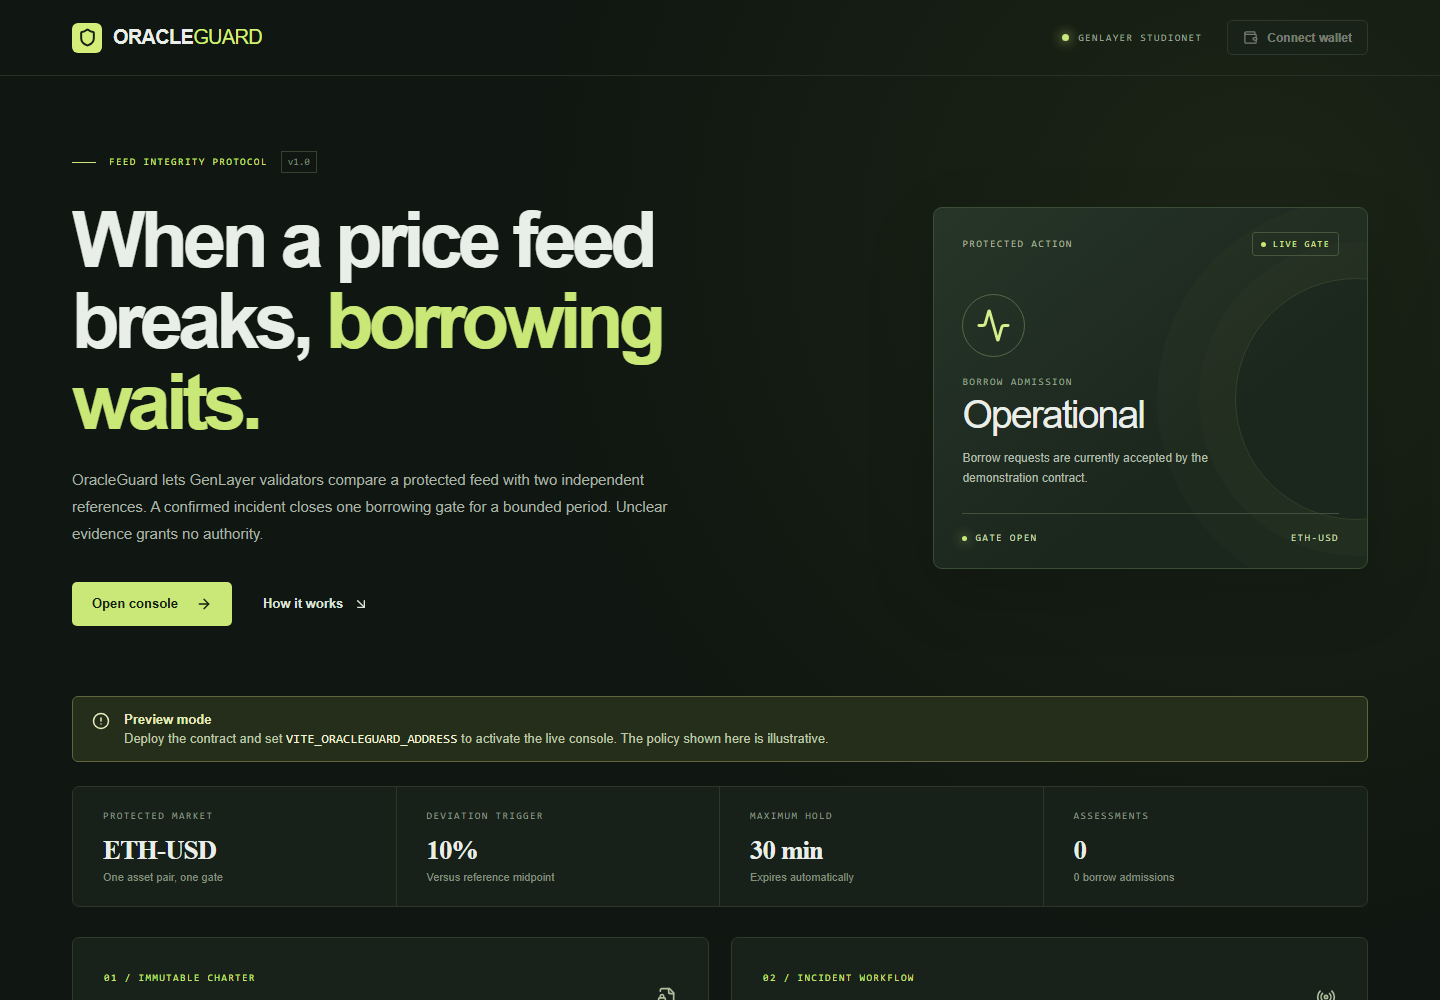
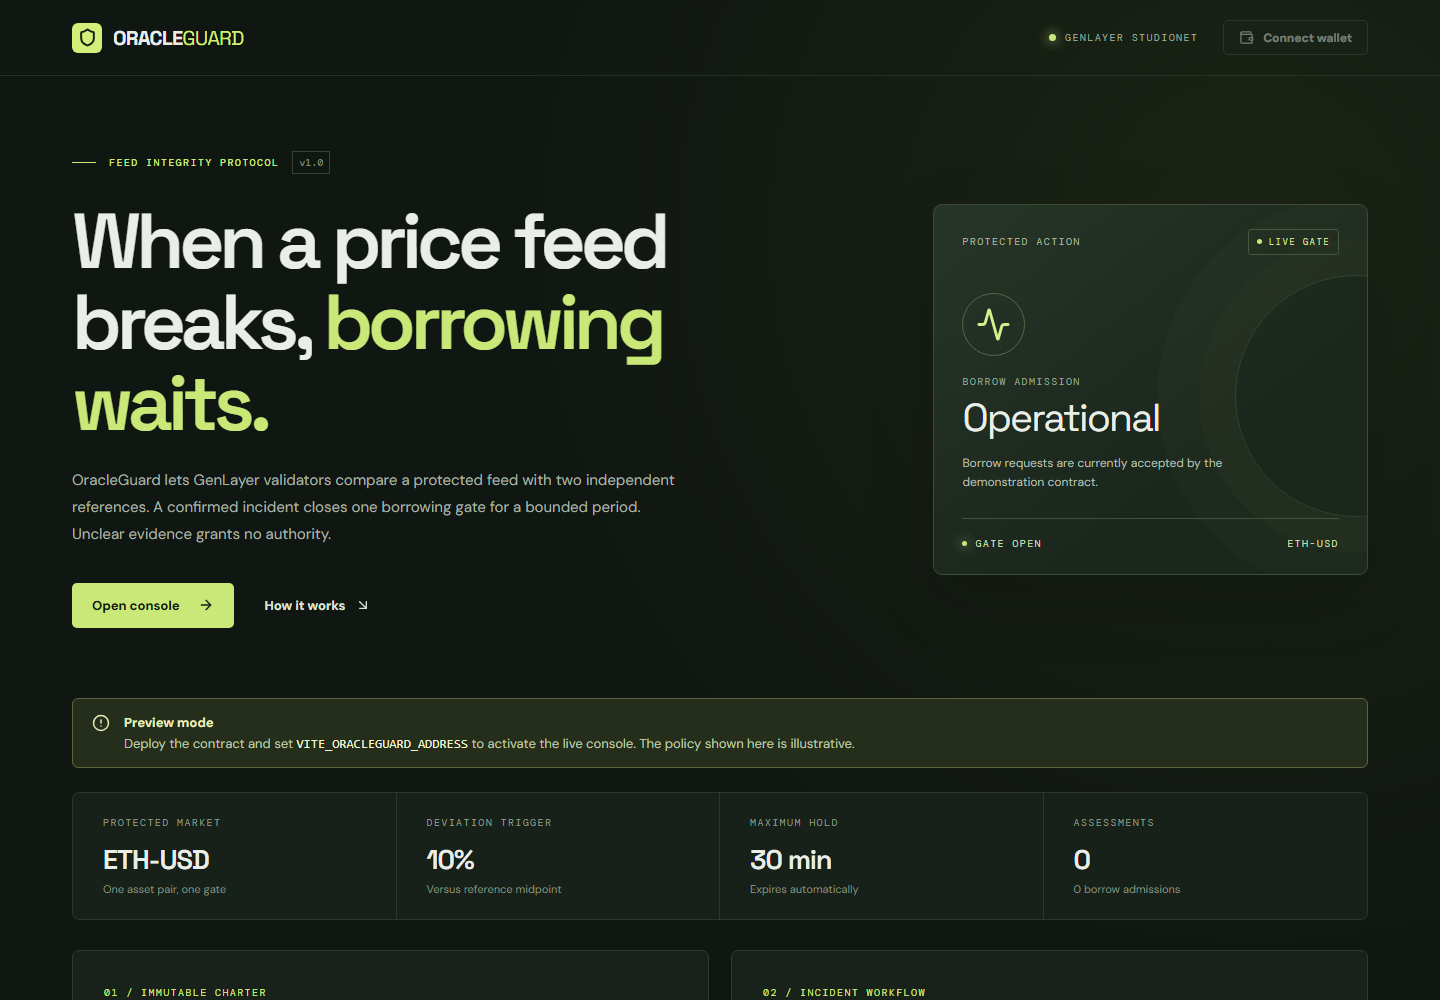
Keep display typography consistent offline

diff --git a/web/src/style.css b/web/src/style.css
@@ -1,6 +1,6 @@
 @import url('https://fonts.googleapis.com/css2?family=DM+Mono:wght@400;500&family=DM+Sans:wght@400;500;600;700&family=Space+Grotesk:wght@400;500;600;700&display=swap');
 
-:root{font-family:'DM Sans',sans-serif;color:#e9eee8;background:#101611;font-synthesis:none;text-rendering:optimizeLegibility}*{box-sizing:border-box}html{scroll-behavior:smooth}body{margin:0;min-width:320px}button,input,textarea{font:inherit}button{cursor:pointer}a{color:inherit;text-decoration:none}button:disabled{cursor:not-allowed;opacity:.45}.app{min-height:100vh;background:radial-gradient(circle at 87% 9%,rgba(123,162,62,.1),transparent 28%),#101611}.topbar{height:76px;display:flex;align-items:center;justify-content:space-between;padding:0 max(5vw,32px);border-bottom:1px solid #263025}.brand{display:flex;align-items:center;gap:11px;font-family:'Space Grotesk',sans-serif;font-weight:700;font-size:20px;letter-spacing:-.7px}.brand-mark{height:30px;width:30px;display:grid;place-items:center;background:#d4ef79;color:#172015;border-radius:6px}.brand-light{font-weight:400;color:#d4ef79}.topbar-right{display:flex;align-items:center;gap:25px}.network,.section-label,.eyebrow,.version,.status-top,.status-kicker,.status-bottom,.metric>span,.field-label,.source span,.rule-grid span,.action-divider,.table-head,.step-number,.decision,.recorded{font-family:'DM Mono',monospace;letter-spacing:1.4px;font-size:10px}.network{color:#9ba799;display:flex;gap:9px;align-items:center}.network-dot,.tiny-dot{width:7px;height:7px;background:#c8e87d;border-radius:50%;display:inline-block;box-shadow:0 0 12px #c8e87d}.wallet-button{height:35px;padding:0 15px;border:1px solid #465544;border-radius:5px;background:#1b251c;color:#e8eee3;display:flex;align-items:center;gap:9px;font-size:12px;font-weight:700}.wallet-button:hover:not(:disabled){background:#2b3929}main{max-width:1440px;margin:auto;padding:0 max(5vw,32px)}.hero{display:grid;grid-template-columns:1.4fr .8fr;gap:7vw;align-items:center;padding:75px 0 70px}.eyebrow{color:#c9e877;display:flex;align-items:center;gap:13px;font-weight:500}.eyebrow-line{display:block;width:24px;height:1px;background:#c9e877}.version{color:#778674;border:1px solid #354232;padding:4px 6px;letter-spacing:0}.hero h1{font-family:'Space Grotesk',sans-serif;font-size:clamp(48px,5.4vw,84px);letter-spacing:-5px;line-height:1.04;max-width:850px;margin:27px 0 23px;font-weight:600}.hero h1 em{font-style:normal;color:#c9e877}.hero-copy>p{font-size:15px;line-height:1.8;color:#a8b3a6;max-width:605px;margin:0}.hero-actions{display:flex;align-items:center;gap:31px;margin-top:35px}.primary-link{background:#c9e877;color:#152013;padding:14px 20px;border-radius:5px;font-weight:700;font-size:13px;display:flex;gap:18px;align-items:center}.primary-link:hover{background:#e0f5a2}.text-link{font-size:13px;font-weight:700;color:#dce3d9;display:flex;align-items:center;gap:10px}.text-link:hover{color:#c9e877}.hero-status{background:linear-gradient(142deg,#273528,#1b261d 66%);border:1px solid #3b4d37;border-radius:9px;min-height:344px;padding:24px 28px;box-shadow:0 24px 70px rgba(0,0,0,.14);position:relative;overflow:hidden}.hero-status:after{content:'';position:absolute;width:240px;height:240px;right:-110px;top:70px;border:1px solid rgba(201,232,119,.14);border-radius:50%;box-shadow:0 0 0 36px rgba(201,232,119,.025),0 0 0 78px rgba(201,232,119,.02)}.hero-status.is-closed{background:linear-gradient(142deg,#3b3425,#28251c 66%);border-color:#655638}.status-top,.status-bottom{display:flex;justify-content:space-between;align-items:center;color:#a5b39e;position:relative;z-index:1}.live-pill{padding:6px 8px;border:1px solid #45573c;border-radius:3px;color:#d0e394;display:flex;align-items:center;gap:7px;font-size:9px}.live-pill span{width:5px;height:5px;border-radius:50%;background:#c9e877}.status-icon{height:63px;width:63px;border:1px solid #566849;border-radius:50%;display:grid;place-items:center;color:#d4ee8d;margin:38px 0 19px;position:relative;z-index:1}.status-kicker{color:#96a48e}.status-word{font-family:'Space Grotesk',sans-serif;font-size:39px;letter-spacing:-1.8px;margin:5px 0}.hero-status>p{font-size:12px;color:#b0bdab;line-height:1.6;max-width:280px;min-height:39px;position:relative;z-index:1}.status-bottom{border-top:1px solid #42513d;padding-top:18px;margin-top:25px;color:#c9dcad}.status-bottom span:first-child{display:flex;align-items:center;gap:8px}.status-bottom .tiny-dot{height:5px;width:5px}.setup-banner{display:flex;gap:14px;align-items:flex-start;padding:15px 19px;border:1px solid #5f643e;background:#252d1b;border-radius:6px;color:#e7ecbd;margin-bottom:24px;font-size:13px}.setup-banner div{display:flex;flex-direction:column;gap:4px}.setup-banner span{color:#bfc7a9}.setup-banner code{color:#f0f4d1}.metrics{display:grid;grid-template-columns:repeat(4,1fr);border:1px solid #2c372a;background:#172019;border-radius:7px;margin-bottom:30px}.metric{padding:23px 30px;border-right:1px solid #2c372a;display:flex;flex-direction:column}.metric:last-child{border-right:0}.metric>span{color:#8a9a86}.metric strong{font-family:'Space Grotesk';font-size:27px;margin:13px 0 5px;font-weight:600;letter-spacing:-1px}.metric small{color:#82907f;font-size:11px}.console-grid{display:grid;grid-template-columns:1fr 1fr;gap:22px}.panel{background:#18221a;border:1px solid #2e3b2c;border-radius:7px;padding:29px 31px;min-height:590px}.panel-heading{display:flex;justify-content:space-between;align-items:center;color:#adbf9d}.section-label{color:#c9e877}.panel h2,.section-header h2,.how h2{font-family:'Space Grotesk';letter-spacing:-1.2px;font-size:29px;font-weight:600;margin:9px 0 0;color:#eff5eb}.panel-intro{color:#9fae9a;line-height:1.65;font-size:13px;max-width:540px;margin:17px 0 24px}.source-list{border:1px solid #32402f;border-radius:5px;overflow:hidden}.source{display:flex;align-items:center;gap:17px;padding:15px 18px;border-bottom:1px solid #32402f}.source:last-child{border-bottom:0}.source-index{font-family:'DM Mono';font-size:12px;color:#71816d;width:22px}.source>div:nth-child(2){display:flex;flex-direction:column;gap:4px;flex:1;min-width:0}.source span{color:#c5df88;font-size:9px}.source strong{font-size:13px;font-weight:600}.source small{color:#81917f;font-size:11px;text-overflow:ellipsis;white-space:nowrap;overflow:hidden}.source a{color:#81917f}.source a:hover{color:#d4ef79}.rule-grid{display:grid;grid-template-columns:1fr 1fr;gap:12px;margin-top:18px}.rule-grid>div{border:1px solid #32402f;border-radius:5px;padding:16px;display:flex;justify-content:space-between;align-items:center}.rule-grid span{color:#82917d;font-size:9px}.rule-grid strong{font-family:'Space Grotesk';font-size:17px}.contract-link{display:flex;align-items:center;gap:8px;color:#c9e877;font-family:'DM Mono';font-size:10px;margin-top:24px}.contract-link:hover{text-decoration:underline}.field-label{display:block;color:#a6b5a1;margin:21px 0 9px}.action-panel textarea,.number-input{background:#111912;border:1px solid #344331;border-radius:4px;color:#e6efe1}.action-panel textarea{resize:vertical;width:100%;height:95px;min-height:72px;padding:13px 15px;font-size:13px;line-height:1.5;outline:none}.action-panel textarea:focus,.number-input:focus-within{border-color:#b4d676}.action-panel textarea::placeholder{color:#61715e}.input-row{display:flex;gap:20px;align-items:end}.input-row>div:first-child{flex:1}.number-input{display:flex;align-items:center;max-width:240px;height:44px}.number-input input{min-width:0;flex:1;width:90px;padding:0 12px;background:none;border:0;outline:none;color:#f0f4e8;font-size:14px}.number-input span{color:#859480;font-size:11px;padding-right:12px}.duration-hint{font-size:11px;color:#768774;line-height:1.6;padding-bottom:4px}.duration-hint strong{color:#b6c8ac;font-size:12px}.action-button{width:100%;height:47px;display:flex;align-items:center;justify-content:center;gap:12px;background:#c9e877;border:0;border-radius:4px;color:#1c2918;font-weight:700;font-size:13px;margin-top:22px}.action-button:hover:not(:disabled){background:#e0f5a2}.action-divider{display:flex;align-items:center;gap:12px;color:#80907a;margin:25px 0 17px;white-space:nowrap}.action-divider:after{content:'';height:1px;background:#364433;flex:1}.borrow-row{display:flex;gap:9px}.borrow-row .number-input{flex:1;max-width:none}.secondary-button{display:flex;align-items:center;justify-content:center;gap:7px;white-space:nowrap;background:#31402e;color:#e7f2d8;border:1px solid #52644c;border-radius:4px;padding:0 15px;font-weight:700;font-size:12px}.secondary-button:hover:not(:disabled){background:#43573e}.microcopy{font-size:11px;color:#778873;line-height:1.4;margin:10px 0 0}.feedback{display:flex;justify-content:space-between;gap:15px;padding:14px 18px;background:#243b24;border:1px solid #537d49;border-radius:5px;margin-top:18px;color:#d1edc1;font-size:12px}.feedback>div,.feedback a{display:flex;align-items:center;gap:9px}.feedback a{text-decoration:underline}.feedback-error{background:#37251d;border-color:#905143;color:#f4c5b7}.spin{animation:spin 1.4s linear infinite}@keyframes spin{to{transform:rotate(360deg)}}.incidents{padding:77px 0 90px}.section-header{display:flex;justify-content:space-between;align-items:end;margin-bottom:25px}.section-header h2{font-size:35px}.section-header p,.how-title p{color:#8d9d8a;font-size:13px;margin:8px 0 0}.refresh-button{background:none;border:1px solid #42523d;color:#d9e5d4;border-radius:4px;padding:10px 14px;display:flex;align-items:center;gap:8px;font-size:12px}.refresh-button:hover:not(:disabled){background:#1d2a1f}.incident-table{border:1px solid #30402e;border-radius:6px;overflow:hidden;background:#18221a}.table-head,.incident-row{display:grid;grid-template-columns:1.1fr 1.35fr 1.6fr 1.2fr .9fr;align-items:center;gap:12px;padding:0 20px}.table-head{height:46px;background:#223024;color:#91a18d;font-size:9px}.incident-row{min-height:81px;border-top:1px solid #30402e;font-size:12px}.incident-id,.evidence-cell{display:flex;flex-direction:column;gap:6px;min-width:0}.incident-id strong{font-family:'Space Grotesk';font-size:16px}.incident-id small,.evidence-cell small{color:#879784;overflow:hidden;text-overflow:ellipsis;white-space:nowrap}.evidence-cell strong{font-weight:500;overflow:hidden;text-overflow:ellipsis;white-space:nowrap}.decision{display:inline-flex;align-items:center;gap:6px;color:#b4c6aa;font-size:9px;letter-spacing:.6px;line-height:1.5}.decision-trigger_confirmed{color:#f6cb89}.decision-no_trigger{color:#cde692}.decision-insufficient_evidence{color:#d6c493}.date-cell{color:#a1b09d;font-size:11px}.evaluate-button{color:#d4ed9a;border:1px solid #506746;background:#293a29;border-radius:4px;padding:9px 11px;display:flex;align-items:center;gap:8px;font-size:11px}.evaluate-button:hover:not(:disabled){background:#3b5237}.recorded{color:#81917e;font-size:9px;letter-spacing:.2px;line-height:1.5}.empty-state{min-height:205px;border-top:1px solid #30402e;display:flex;align-items:center;justify-content:center;flex-direction:column;gap:9px;color:#8ea386;text-align:center}.empty-state strong{color:#dce8d5;font-family:'Space Grotesk';font-size:17px;font-weight:500}.empty-state span{font-size:12px}.how{border-top:1px solid #2b392a;padding:62px 0 100px;display:grid;grid-template-columns:.8fr 2fr;gap:60px}.how h2{font-size:41px;line-height:1.1;max-width:320px;margin-top:15px}.how-title p{line-height:1.6;max-width:250px}.how-steps{display:grid;grid-template-columns:repeat(4,1fr);gap:13px}.how-steps>div{background:#18221a;border:1px solid #30402e;border-radius:6px;padding:20px 17px;min-height:235px}.step-icon{display:grid;place-items:center;width:41px;height:41px;border:1px solid #4b6142;color:#d0ea91;border-radius:5px;margin-bottom:28px}.step-number{color:#9dae8f}.how h3{font-family:'Space Grotesk';font-size:16px;margin:10px 0;font-weight:600}.how-steps p{font-size:11px;line-height:1.7;color:#8fa18b;margin:0}footer{border-top:1px solid #2b392a;max-width:1440px;margin:auto;padding:28px max(5vw,32px);display:flex;align-items:center;justify-content:space-between;color:#83917e;font-size:11px}footer .brand{font-size:15px;color:#edf3e9}footer .brand-mark{height:23px;width:23px}footer a{display:flex;align-items:center;gap:5px}footer a:hover{color:#c9e877}
+:root{font-family:'DM Sans',sans-serif;color:#e9eee8;background:#101611;font-synthesis:none;text-rendering:optimizeLegibility}*{box-sizing:border-box}html{scroll-behavior:smooth}body{margin:0;min-width:320px}button,input,textarea{font:inherit}button{cursor:pointer}a{color:inherit;text-decoration:none}button:disabled{cursor:not-allowed;opacity:.45}.app{min-height:100vh;background:radial-gradient(circle at 87% 9%,rgba(123,162,62,.1),transparent 28%),#101611}.topbar{height:76px;display:flex;align-items:center;justify-content:space-between;padding:0 max(5vw,32px);border-bottom:1px solid #263025}.brand{display:flex;align-items:center;gap:11px;font-family:'Space Grotesk',sans-serif;font-weight:700;font-size:20px;letter-spacing:-.7px}.brand-mark{height:30px;width:30px;display:grid;place-items:center;background:#d4ef79;color:#172015;border-radius:6px}.brand-light{font-weight:400;color:#d4ef79}.topbar-right{display:flex;align-items:center;gap:25px}.network,.section-label,.eyebrow,.version,.status-top,.status-kicker,.status-bottom,.metric>span,.field-label,.source span,.rule-grid span,.action-divider,.table-head,.step-number,.decision,.recorded{font-family:'DM Mono',monospace;letter-spacing:1.4px;font-size:10px}.network{color:#9ba799;display:flex;gap:9px;align-items:center}.network-dot,.tiny-dot{width:7px;height:7px;background:#c8e87d;border-radius:50%;display:inline-block;box-shadow:0 0 12px #c8e87d}.wallet-button{height:35px;padding:0 15px;border:1px solid #465544;border-radius:5px;background:#1b251c;color:#e8eee3;display:flex;align-items:center;gap:9px;font-size:12px;font-weight:700}.wallet-button:hover:not(:disabled){background:#2b3929}main{max-width:1440px;margin:auto;padding:0 max(5vw,32px)}.hero{display:grid;grid-template-columns:1.4fr .8fr;gap:7vw;align-items:center;padding:75px 0 70px}.eyebrow{color:#c9e877;display:flex;align-items:center;gap:13px;font-weight:500}.eyebrow-line{display:block;width:24px;height:1px;background:#c9e877}.version{color:#778674;border:1px solid #354232;padding:4px 6px;letter-spacing:0}.hero h1{font-family:'Space Grotesk',sans-serif;font-size:clamp(48px,5.4vw,84px);letter-spacing:-5px;line-height:1.04;max-width:850px;margin:27px 0 23px;font-weight:600}.hero h1 em{font-style:normal;color:#c9e877}.hero-copy>p{font-size:15px;line-height:1.8;color:#a8b3a6;max-width:605px;margin:0}.hero-actions{display:flex;align-items:center;gap:31px;margin-top:35px}.primary-link{background:#c9e877;color:#152013;padding:14px 20px;border-radius:5px;font-weight:700;font-size:13px;display:flex;gap:18px;align-items:center}.primary-link:hover{background:#e0f5a2}.text-link{font-size:13px;font-weight:700;color:#dce3d9;display:flex;align-items:center;gap:10px}.text-link:hover{color:#c9e877}.hero-status{background:linear-gradient(142deg,#273528,#1b261d 66%);border:1px solid #3b4d37;border-radius:9px;min-height:344px;padding:24px 28px;box-shadow:0 24px 70px rgba(0,0,0,.14);position:relative;overflow:hidden}.hero-status:after{content:'';position:absolute;width:240px;height:240px;right:-110px;top:70px;border:1px solid rgba(201,232,119,.14);border-radius:50%;box-shadow:0 0 0 36px rgba(201,232,119,.025),0 0 0 78px rgba(201,232,119,.02)}.hero-status.is-closed{background:linear-gradient(142deg,#3b3425,#28251c 66%);border-color:#655638}.status-top,.status-bottom{display:flex;justify-content:space-between;align-items:center;color:#a5b39e;position:relative;z-index:1}.live-pill{padding:6px 8px;border:1px solid #45573c;border-radius:3px;color:#d0e394;display:flex;align-items:center;gap:7px;font-size:9px}.live-pill span{width:5px;height:5px;border-radius:50%;background:#c9e877}.status-icon{height:63px;width:63px;border:1px solid #566849;border-radius:50%;display:grid;place-items:center;color:#d4ee8d;margin:38px 0 19px;position:relative;z-index:1}.status-kicker{color:#96a48e}.status-word{font-family:'Space Grotesk',sans-serif;font-size:39px;letter-spacing:-1.8px;margin:5px 0}.hero-status>p{font-size:12px;color:#b0bdab;line-height:1.6;max-width:280px;min-height:39px;position:relative;z-index:1}.status-bottom{border-top:1px solid #42513d;padding-top:18px;margin-top:25px;color:#c9dcad}.status-bottom span:first-child{display:flex;align-items:center;gap:8px}.status-bottom .tiny-dot{height:5px;width:5px}.setup-banner{display:flex;gap:14px;align-items:flex-start;padding:15px 19px;border:1px solid #5f643e;background:#252d1b;border-radius:6px;color:#e7ecbd;margin-bottom:24px;font-size:13px}.setup-banner div{display:flex;flex-direction:column;gap:4px}.setup-banner span{color:#bfc7a9}.setup-banner code{color:#f0f4d1}.metrics{display:grid;grid-template-columns:repeat(4,1fr);border:1px solid #2c372a;background:#172019;border-radius:7px;margin-bottom:30px}.metric{padding:23px 30px;border-right:1px solid #2c372a;display:flex;flex-direction:column}.metric:last-child{border-right:0}.metric>span{color:#8a9a86}.metric strong{font-family:'Space Grotesk',sans-serif;font-size:27px;margin:13px 0 5px;font-weight:600;letter-spacing:-1px}.metric small{color:#82907f;font-size:11px}.console-grid{display:grid;grid-template-columns:1fr 1fr;gap:22px}.panel{background:#18221a;border:1px solid #2e3b2c;border-radius:7px;padding:29px 31px;min-height:590px}.panel-heading{display:flex;justify-content:space-between;align-items:center;color:#adbf9d}.section-label{color:#c9e877}.panel h2,.section-header h2,.how h2{font-family:'Space Grotesk',sans-serif;letter-spacing:-1.2px;font-size:29px;font-weight:600;margin:9px 0 0;color:#eff5eb}.panel-intro{color:#9fae9a;line-height:1.65;font-size:13px;max-width:540px;margin:17px 0 24px}.source-list{border:1px solid #32402f;border-radius:5px;overflow:hidden}.source{display:flex;align-items:center;gap:17px;padding:15px 18px;border-bottom:1px solid #32402f}.source:last-child{border-bottom:0}.source-index{font-family:'DM Mono';font-size:12px;color:#71816d;width:22px}.source>div:nth-child(2){display:flex;flex-direction:column;gap:4px;flex:1;min-width:0}.source span{color:#c5df88;font-size:9px}.source strong{font-size:13px;font-weight:600}.source small{color:#81917f;font-size:11px;text-overflow:ellipsis;white-space:nowrap;overflow:hidden}.source a{color:#81917f}.source a:hover{color:#d4ef79}.rule-grid{display:grid;grid-template-columns:1fr 1fr;gap:12px;margin-top:18px}.rule-grid>div{border:1px solid #32402f;border-radius:5px;padding:16px;display:flex;justify-content:space-between;align-items:center}.rule-grid span{color:#82917d;font-size:9px}.rule-grid strong{font-family:'Space Grotesk',sans-serif;font-size:17px}.contract-link{display:flex;align-items:center;gap:8px;color:#c9e877;font-family:'DM Mono';font-size:10px;margin-top:24px}.contract-link:hover{text-decoration:underline}.field-label{display:block;color:#a6b5a1;margin:21px 0 9px}.action-panel textarea,.number-input{background:#111912;border:1px solid #344331;border-radius:4px;color:#e6efe1}.action-panel textarea{resize:vertical;width:100%;height:95px;min-height:72px;padding:13px 15px;font-size:13px;line-height:1.5;outline:none}.action-panel textarea:focus,.number-input:focus-within{border-color:#b4d676}.action-panel textarea::placeholder{color:#61715e}.input-row{display:flex;gap:20px;align-items:end}.input-row>div:first-child{flex:1}.number-input{display:flex;align-items:center;max-width:240px;height:44px}.number-input input{min-width:0;flex:1;width:90px;padding:0 12px;background:none;border:0;outline:none;color:#f0f4e8;font-size:14px}.number-input span{color:#859480;font-size:11px;padding-right:12px}.duration-hint{font-size:11px;color:#768774;line-height:1.6;padding-bottom:4px}.duration-hint strong{color:#b6c8ac;font-size:12px}.action-button{width:100%;height:47px;display:flex;align-items:center;justify-content:center;gap:12px;background:#c9e877;border:0;border-radius:4px;color:#1c2918;font-weight:700;font-size:13px;margin-top:22px}.action-button:hover:not(:disabled){background:#e0f5a2}.action-divider{display:flex;align-items:center;gap:12px;color:#80907a;margin:25px 0 17px;white-space:nowrap}.action-divider:after{content:'';height:1px;background:#364433;flex:1}.borrow-row{display:flex;gap:9px}.borrow-row .number-input{flex:1;max-width:none}.secondary-button{display:flex;align-items:center;justify-content:center;gap:7px;white-space:nowrap;background:#31402e;color:#e7f2d8;border:1px solid #52644c;border-radius:4px;padding:0 15px;font-weight:700;font-size:12px}.secondary-button:hover:not(:disabled){background:#43573e}.microcopy{font-size:11px;color:#778873;line-height:1.4;margin:10px 0 0}.feedback{display:flex;justify-content:space-between;gap:15px;padding:14px 18px;background:#243b24;border:1px solid #537d49;border-radius:5px;margin-top:18px;color:#d1edc1;font-size:12px}.feedback>div,.feedback a{display:flex;align-items:center;gap:9px}.feedback a{text-decoration:underline}.feedback-error{background:#37251d;border-color:#905143;color:#f4c5b7}.spin{animation:spin 1.4s linear infinite}@keyframes spin{to{transform:rotate(360deg)}}.incidents{padding:77px 0 90px}.section-header{display:flex;justify-content:space-between;align-items:end;margin-bottom:25px}.section-header h2{font-size:35px}.section-header p,.how-title p{color:#8d9d8a;font-size:13px;margin:8px 0 0}.refresh-button{background:none;border:1px solid #42523d;color:#d9e5d4;border-radius:4px;padding:10px 14px;display:flex;align-items:center;gap:8px;font-size:12px}.refresh-button:hover:not(:disabled){background:#1d2a1f}.incident-table{border:1px solid #30402e;border-radius:6px;overflow:hidden;background:#18221a}.table-head,.incident-row{display:grid;grid-template-columns:1.1fr 1.35fr 1.6fr 1.2fr .9fr;align-items:center;gap:12px;padding:0 20px}.table-head{height:46px;background:#223024;color:#91a18d;font-size:9px}.incident-row{min-height:81px;border-top:1px solid #30402e;font-size:12px}.incident-id,.evidence-cell{display:flex;flex-direction:column;gap:6px;min-width:0}.incident-id strong{font-family:'Space Grotesk',sans-serif;font-size:16px}.incident-id small,.evidence-cell small{color:#879784;overflow:hidden;text-overflow:ellipsis;white-space:nowrap}.evidence-cell strong{font-weight:500;overflow:hidden;text-overflow:ellipsis;white-space:nowrap}.decision{display:inline-flex;align-items:center;gap:6px;color:#b4c6aa;font-size:9px;letter-spacing:.6px;line-height:1.5}.decision-trigger_confirmed{color:#f6cb89}.decision-no_trigger{color:#cde692}.decision-insufficient_evidence{color:#d6c493}.date-cell{color:#a1b09d;font-size:11px}.evaluate-button{color:#d4ed9a;border:1px solid #506746;background:#293a29;border-radius:4px;padding:9px 11px;display:flex;align-items:center;gap:8px;font-size:11px}.evaluate-button:hover:not(:disabled){background:#3b5237}.recorded{color:#81917e;font-size:9px;letter-spacing:.2px;line-height:1.5}.empty-state{min-height:205px;border-top:1px solid #30402e;display:flex;align-items:center;justify-content:center;flex-direction:column;gap:9px;color:#8ea386;text-align:center}.empty-state strong{color:#dce8d5;font-family:'Space Grotesk',sans-serif;font-size:17px;font-weight:500}.empty-state span{font-size:12px}.how{border-top:1px solid #2b392a;padding:62px 0 100px;display:grid;grid-template-columns:.8fr 2fr;gap:60px}.how h2{font-size:41px;line-height:1.1;max-width:320px;margin-top:15px}.how-title p{line-height:1.6;max-width:250px}.how-steps{display:grid;grid-template-columns:repeat(4,1fr);gap:13px}.how-steps>div{background:#18221a;border:1px solid #30402e;border-radius:6px;padding:20px 17px;min-height:235px}.step-icon{display:grid;place-items:center;width:41px;height:41px;border:1px solid #4b6142;color:#d0ea91;border-radius:5px;margin-bottom:28px}.step-number{color:#9dae8f}.how h3{font-family:'Space Grotesk',sans-serif;font-size:16px;margin:10px 0;font-weight:600}.how-steps p{font-size:11px;line-height:1.7;color:#8fa18b;margin:0}footer{border-top:1px solid #2b392a;max-width:1440px;margin:auto;padding:28px max(5vw,32px);display:flex;align-items:center;justify-content:space-between;color:#83917e;font-size:11px}footer .brand{font-size:15px;color:#edf3e9}footer .brand-mark{height:23px;width:23px}footer a{display:flex;align-items:center;gap:5px}footer a:hover{color:#c9e877}
 @media(max-width:1050px){.hero{gap:40px}.hero h1{font-size:60px}.how{grid-template-columns:1fr;gap:25px}.how-steps{grid-template-columns:repeat(4,1fr)}}
 @media(max-width:800px){.hero{grid-template-columns:1fr;padding-top:58px}.hero-status{max-width:520px}.metrics{grid-template-columns:repeat(2,1fr)}.metric:nth-child(2){border-right:0}.metric:nth-child(-n+2){border-bottom:1px solid #2c372a}.console-grid{grid-template-columns:1fr}.panel{min-height:auto}.how-steps{grid-template-columns:repeat(2,1fr)}.incident-table{overflow-x:auto}.table-head,.incident-row{min-width:850px}}
 @media(max-width:560px){.topbar{padding:0 20px}.network{display:none}main{padding:0 20px}.hero{padding:49px 0}.hero h1{font-size:48px;letter-spacing:-3px}.hero-actions{gap:19px}.hero-status{min-height:330px}.metrics{margin-bottom:20px}.metric{padding:17px}.metric strong{font-size:24px}.metric small{font-size:10px}.panel{padding:22px}.rule-grid{grid-template-columns:1fr}.how-steps{grid-template-columns:1fr 1fr}.how-steps>div{min-height:215px}.section-header h2{font-size:29px}.section-header p{max-width:230px}.refresh-button{padding:9px;font-size:0}.refresh-button svg{height:17px;width:17px}footer{padding:25px 20px;gap:14px;flex-wrap:wrap}footer>span{order:3;width:100%}}
